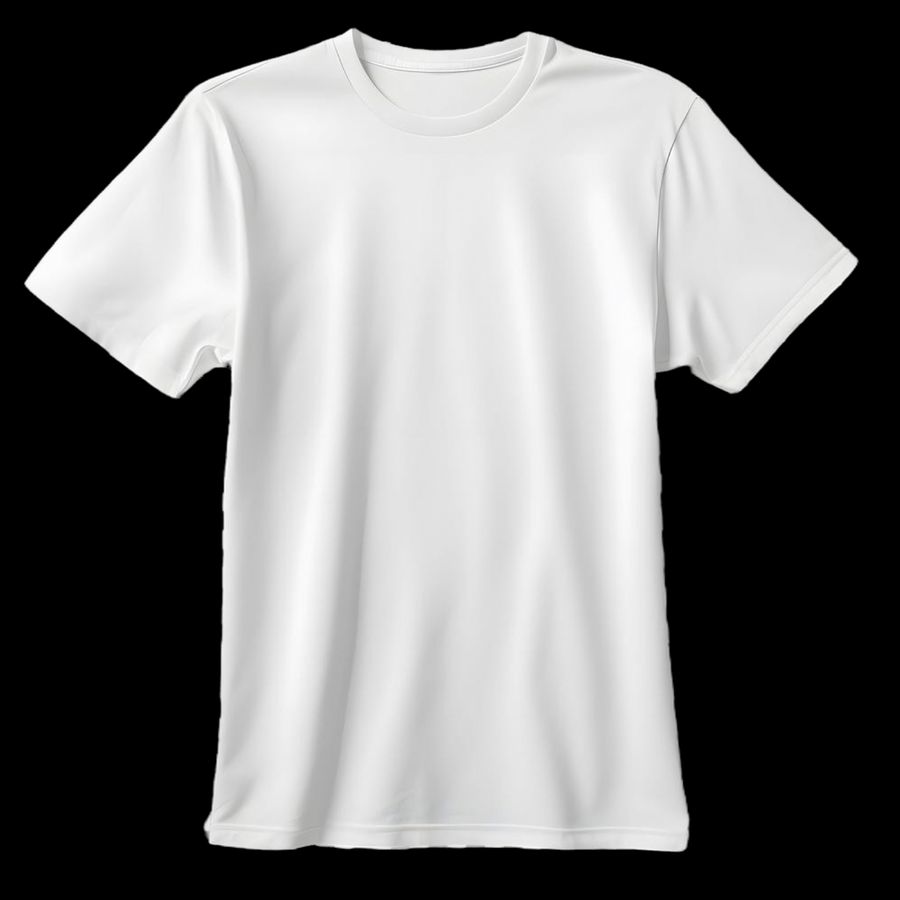
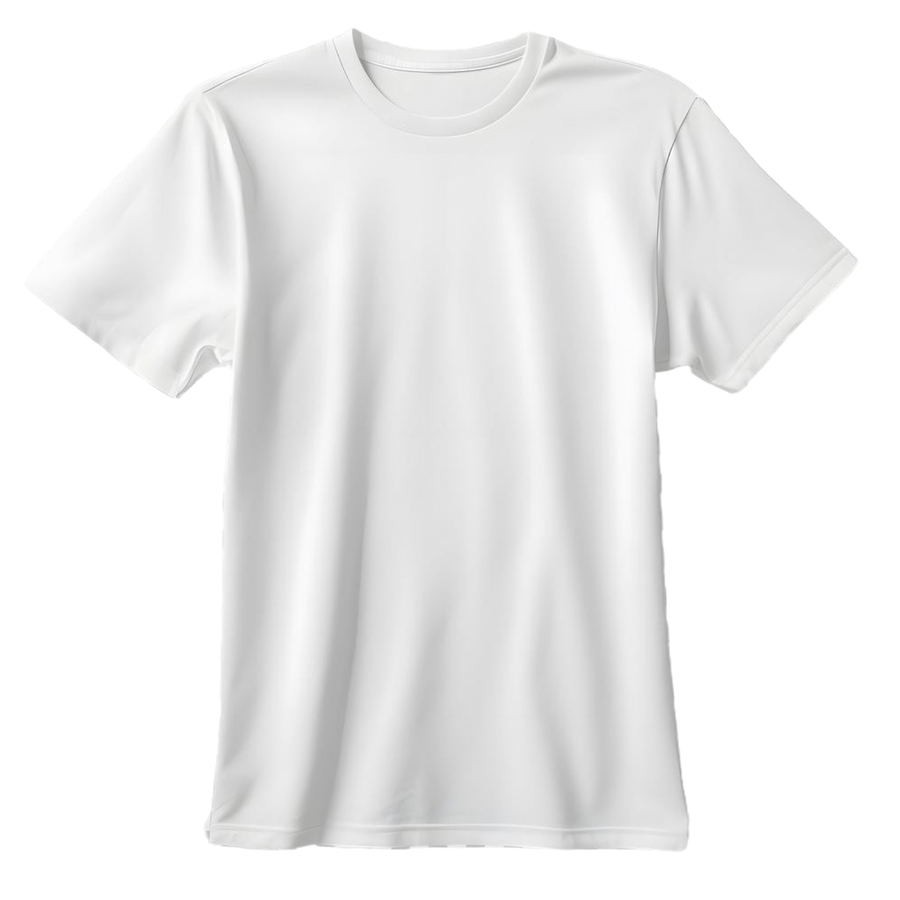
T-shirt shop: see-through shirt pictures on the stage's background, own character 2x bigger with the player's name, no XXL

diff --git a/hotel-src/src/ui/tshirtArt.ts b/hotel-src/src/ui/tshirtArt.ts
@@ -1,6 +1,6 @@
-// The pictures of the t-shirt shop: the two designs the admin can change, and the player's own character on a blank shirt.
-// The shirt pictures are 1500x1500 mockups (public/tshirt/ holds them at 900x900); the character on the third one is drawn the same size and in the same place
-// as the middle character of design A (scale 3.37, standing on the same line), looking the same way (facing 2).
+// The pictures of the t-shirt shop: the two designs the admin can change, and the player's own character (with their name under it) on a blank shirt.
+// The shirt pictures are see-through 1500x1500 pictures (public/tshirt/ holds them at 900x900); the character on the third one is twice the size of the characters on design A
+// (they are drawn at scale 3.37), looking the same way (facing 2), with the name under it.
 import { get, ref, remove, set } from "firebase/database";
 import { db } from "../firebase";
 import { assetUrl } from "../assetUrl";
@@ -8,7 +8,7 @@ import { renderAvatar } from "../avatarService";
 import type { TshirtDesign } from "../shared/tshirt";
 
 /** the mockup's size, and where the middle character of design A stands in it (centre x, the line its feet are on) */
-const MOCK = 1500, CHAR_X = 751, CHAR_FEET_Y = 757, CHAR_SCALE = 3.37, CHAR_DIR = 2;
+const MOCK = 1500, CHAR_X = 751, CHAR_FEET_Y = 1010, CHAR_SCALE = 3.37 * 2, CHAR_DIR = 2, NAME_Y = 1100, NAME_PX = 66;
 
 const loadImage = (src: string): Promise<HTMLImageElement> => new Promise((res, rej) => { const i = new Image(); i.onload = () => res(i); i.onerror = () => rej(new Error("no " + src)); i.src = src; });
 
@@ -30,11 +30,9 @@ export async function uploadDesign(id: "a" | "b", file: File): Promise<void> {
   const c = document.createElement("canvas");
   c.width = Math.round(img.naturalWidth * k); c.height = Math.round(img.naturalHeight * k);
   const g = c.getContext("2d")!;
-  g.fillStyle = "#000"; g.fillRect(0, 0, c.width, c.height); // (the mockups come on black)
   g.drawImage(img, 0, 0, c.width, c.height);
   let url = c.toDataURL("image/png");
   if (url.length > 1_100_000) url = c.toDataURL("image/webp", 0.92);
-  if (url.length > 1_100_000) url = c.toDataURL("image/jpeg", 0.9);
   if (url.length > 1_150_000) throw new Error("That picture is too big even after shrinking it. Try a smaller one.");
   await set(ref(db, `tshirtDesigns/${id}`), url);
 }
@@ -49,8 +47,20 @@ function inkBox(c: HTMLCanvasElement): { x0: number; y0: number; x1: number; y1:
   return x1 < 0 ? null : { x0, y0, x1, y1 };
 }
 
-/** the player's character on the blank shirt: the size of the characters on design A, with its middle on the middle one's line and its shoes on the same line */
-export async function customShirt(figure: string, size = 900): Promise<HTMLCanvasElement> {
+/** the name as it is printed under the character: bold, dark, one line */
+function drawName(g: CanvasRenderingContext2D, name: string, cx: number, baseline: number, px: number): void {
+  g.save();
+  g.font = `bold ${Math.round(px)}px Verdana, "Trebuchet MS", sans-serif`;
+  g.textAlign = "center";
+  g.textBaseline = "alphabetic";
+  g.fillStyle = "#15151a";
+  const maxW = px * 14.5; // (a long name is squeezed to fit on the chest)
+  g.fillText(name, cx, baseline, Math.min(g.measureText(name).width, maxW) || maxW);
+  g.restore();
+}
+
+/** the player's character on the blank shirt: twice the size of the characters on design A, in the middle of the chest, with the player's name under it */
+export async function customShirt(figure: string, name: string, size = 900): Promise<HTMLCanvasElement> {
   const c = document.createElement("canvas");
   c.width = c.height = size;
   const g = c.getContext("2d")!;
@@ -64,18 +74,26 @@ export async function customShirt(figure: string, size = 900): Promise<HTMLCanva
     const y = (CHAR_FEET_Y * size) / MOCK - (box.y1 + 1) * k;
     g.drawImage(av, x, y, av.width * k, av.height * k);
   }
+  if (name) drawName(g, name, (CHAR_X * size) / MOCK, (NAME_Y * size) / MOCK, (NAME_PX * size) / MOCK);
   return c;
 }
 
 /** the character alone, big and see-through, to print from (the admin saves it from the order list) */
-export async function printFile(figure: string, k = 14): Promise<HTMLCanvasElement | null> {
+export async function printFile(figure: string, name = "", k = 14): Promise<HTMLCanvasElement | null> {
   const av = await renderAvatar({ figure, dir: CHAR_DIR, headDir: CHAR_DIR, actions: ["std"], gesture: "std", frame: 0 });
   if (!av) return null;
+  const box = inkBox(av);
+  if (!box) return null;
+  const w = (box.x1 - box.x0 + 1) * k, h = (box.y1 - box.y0 + 1) * k;
+  const px = Math.round(NAME_PX * (k / CHAR_SCALE)); // (the name is the same size next to the character as on the shirt)
+  const gap = name ? Math.round((NAME_Y - CHAR_FEET_Y) * (k / CHAR_SCALE)) : 0;
+  const textW = name ? Math.min(px * 14.5, px * name.length * 0.7) : 0;
   const c = document.createElement("canvas");
-  c.width = av.width * k; c.height = av.height * k;
+  c.width = Math.ceil(Math.max(w, textW) + k * 4); c.height = Math.ceil(h + (name ? gap + px * 0.4 : 0) + k * 2);
   const g = c.getContext("2d")!;
   g.imageSmoothingEnabled = false;
-  g.drawImage(av, 0, 0, c.width, c.height);
+  g.drawImage(av, box.x0, box.y0, box.x1 - box.x0 + 1, box.y1 - box.y0 + 1, (c.width - w) / 2, 0, w, h);
+  if (name) drawName(g, name, c.width / 2, h + gap, px);
   return c;
 }
 

diff --git a/hotel-src/src/ui/tshirtShop.ts b/hotel-src/src/ui/tshirtShop.ts
@@ -27,7 +27,7 @@ export function openTshirtShop(host: HTMLElement, ctx: Ctx, onClose: () => void)
   const pics: Partial<Record<TshirtDesign, string>> = {}; // the pictures shown on the cards (a data address or a file)
 
   async function loadPictures(): Promise<void> {
-    const [a, b, mine] = await Promise.all([designPicture("a"), designPicture("b"), customShirt(me.figure).then((c) => c.toDataURL("image/png"), () => "")]);
+    const [a, b, mine] = await Promise.all([designPicture("a"), designPicture("b"), customShirt(me.figure, me.name).then((c) => c.toDataURL("image/png"), () => "")]);
     pics.a = a; pics.b = b; pics.me = mine;
     render();
   }
@@ -118,7 +118,7 @@ export function openTshirtOrders(host: HTMLElement, onClose: () => void): Tshirt
   let closed = false;
 
   async function savePrint(r: OrderRow & { id: string }): Promise<void> {
-    const c = await printFile(r.figure ?? "");
+    const c = await printFile(r.figure ?? "", r.playerName ?? "");
     if (!c) { toast("Couldn't draw that character.", "err"); return; }
     const a = document.createElement("a");
     a.href = c.toDataURL("image/png");

diff --git a/hotel-src/src/style.css b/hotel-src/src/style.css
@@ -1957,7 +1957,7 @@ html.kb .trade-win { max-height: 100%; border-radius: 0; }
 .tshirt-shop .tshirt-cards { display: grid; grid-template-columns: repeat(3, 1fr); gap: 8px; }
 .tshirt-shop .tshirt-card { display: grid; gap: 4px; align-content: start; padding: 6px; border-radius: 8px; border: 2px solid rgba(255, 255, 255, .15); background: rgba(0, 0, 0, .25); cursor: pointer; }
 .tshirt-shop .tshirt-card.on { border-color: #ffe27a; background: rgba(255, 226, 122, .12); }
-.tshirt-shop .tshirt-pic { width: 100%; aspect-ratio: 1; object-fit: contain; border-radius: 6px; background: #000; image-rendering: pixelated; display: block; }
+.tshirt-shop .tshirt-pic { width: 100%; aspect-ratio: 1; object-fit: contain; border-radius: 6px; background: var(--cold); image-rendering: pixelated; display: block; }
 .tshirt-shop .tshirt-pic.loading { display: grid; place-items: center; color: #b6c2e0; }
 .tshirt-shop .tshirt-admin { display: flex; flex-wrap: wrap; gap: 4px; }
 .tshirt-shop .tshirt-form { display: grid; grid-template-columns: 1fr 1fr; gap: 6px 12px; align-items: start; }

diff --git a/hotel-src/src/shared/tshirt.ts b/hotel-src/src/shared/tshirt.ts
@@ -3,7 +3,7 @@
 
 /** 200 kr, in øre */
 export const TSHIRT_PRICE_ORE = 20_000;
-export const TSHIRT_SIZES = ["S", "M", "L", "XL", "XXL"] as const;
+export const TSHIRT_SIZES = ["S", "M", "L", "XL"] as const;
 export type TshirtSize = (typeof TSHIRT_SIZES)[number];
 
 /** the three designs: A and B are pictures the admin can change (public/tshirt/design-a.png, design-b.png, or what he uploaded under tshirtDesigns/<id>), "me" has the player's own character on a blank shirt */
